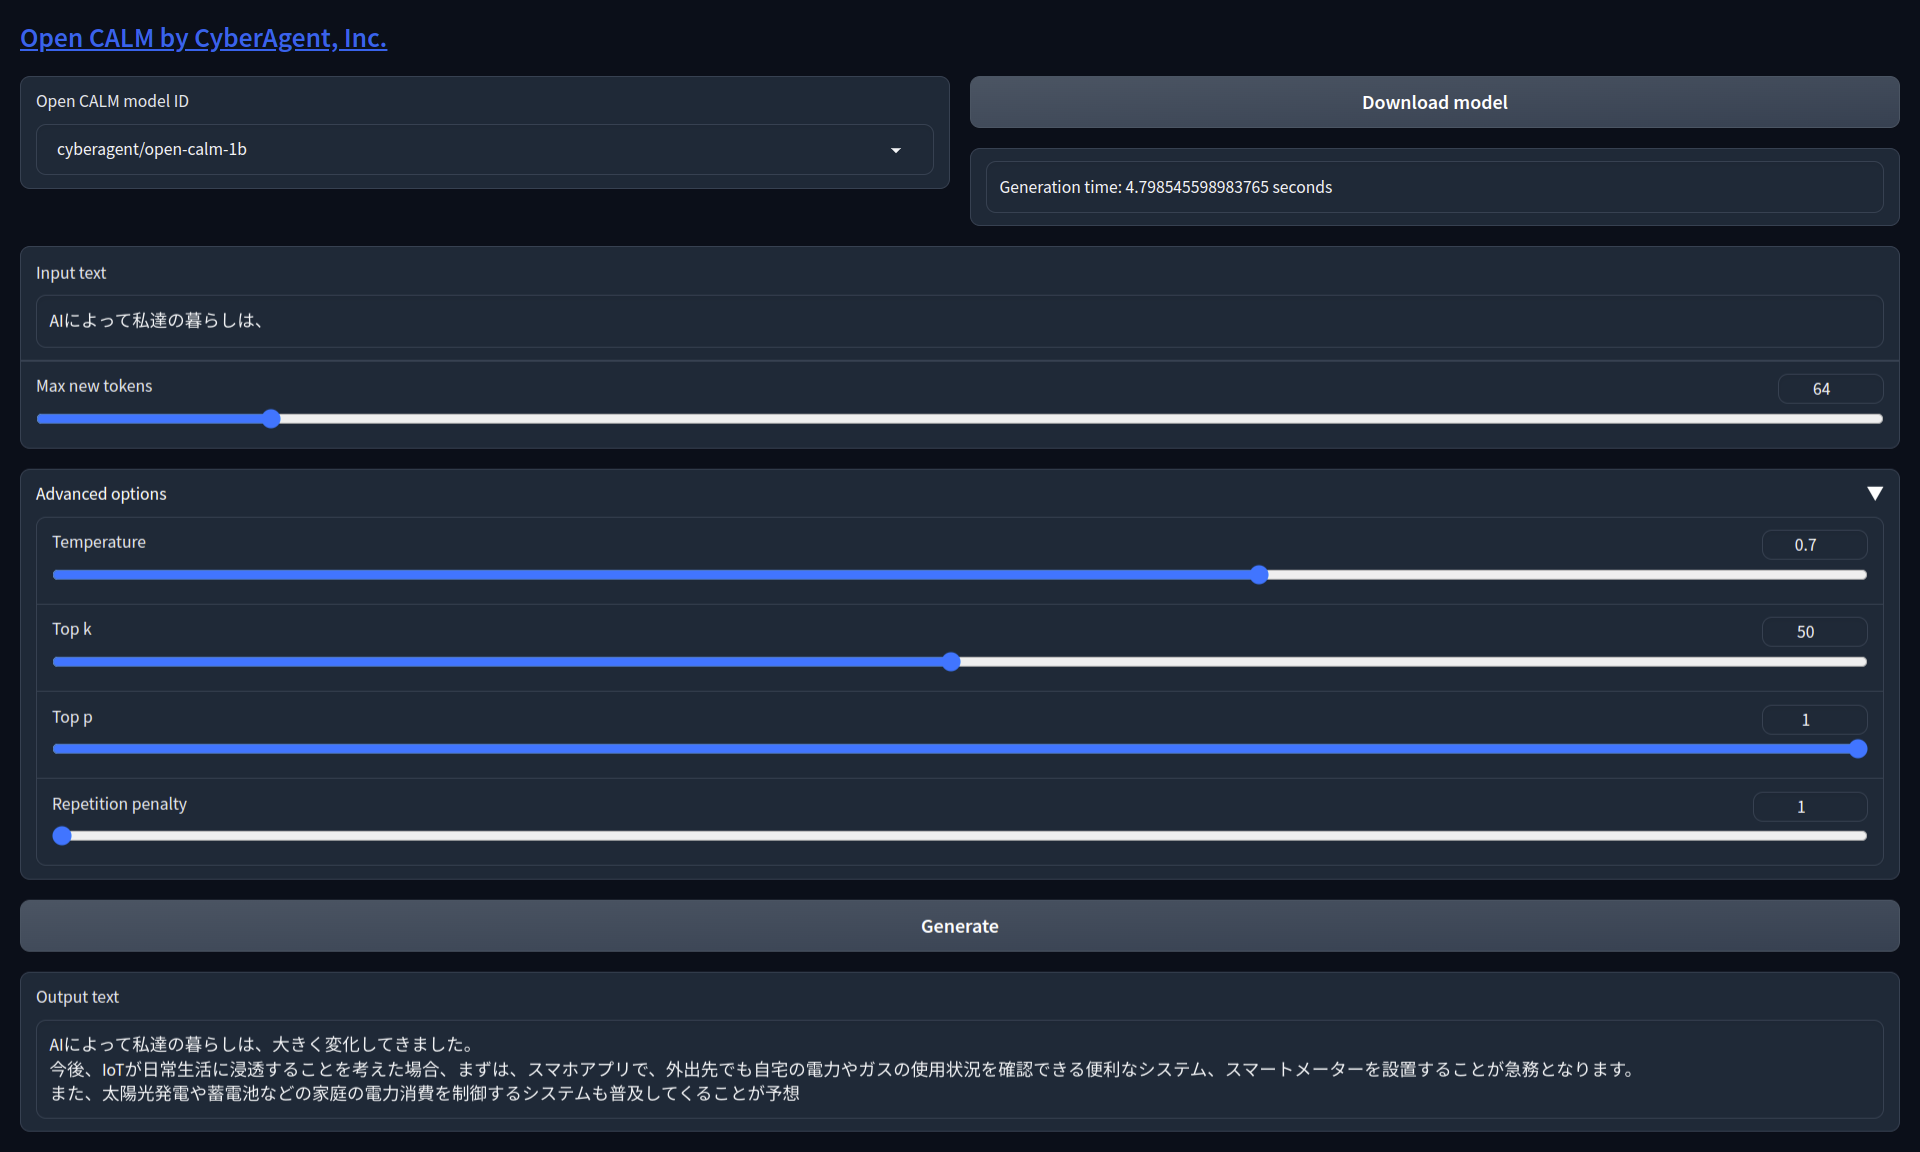
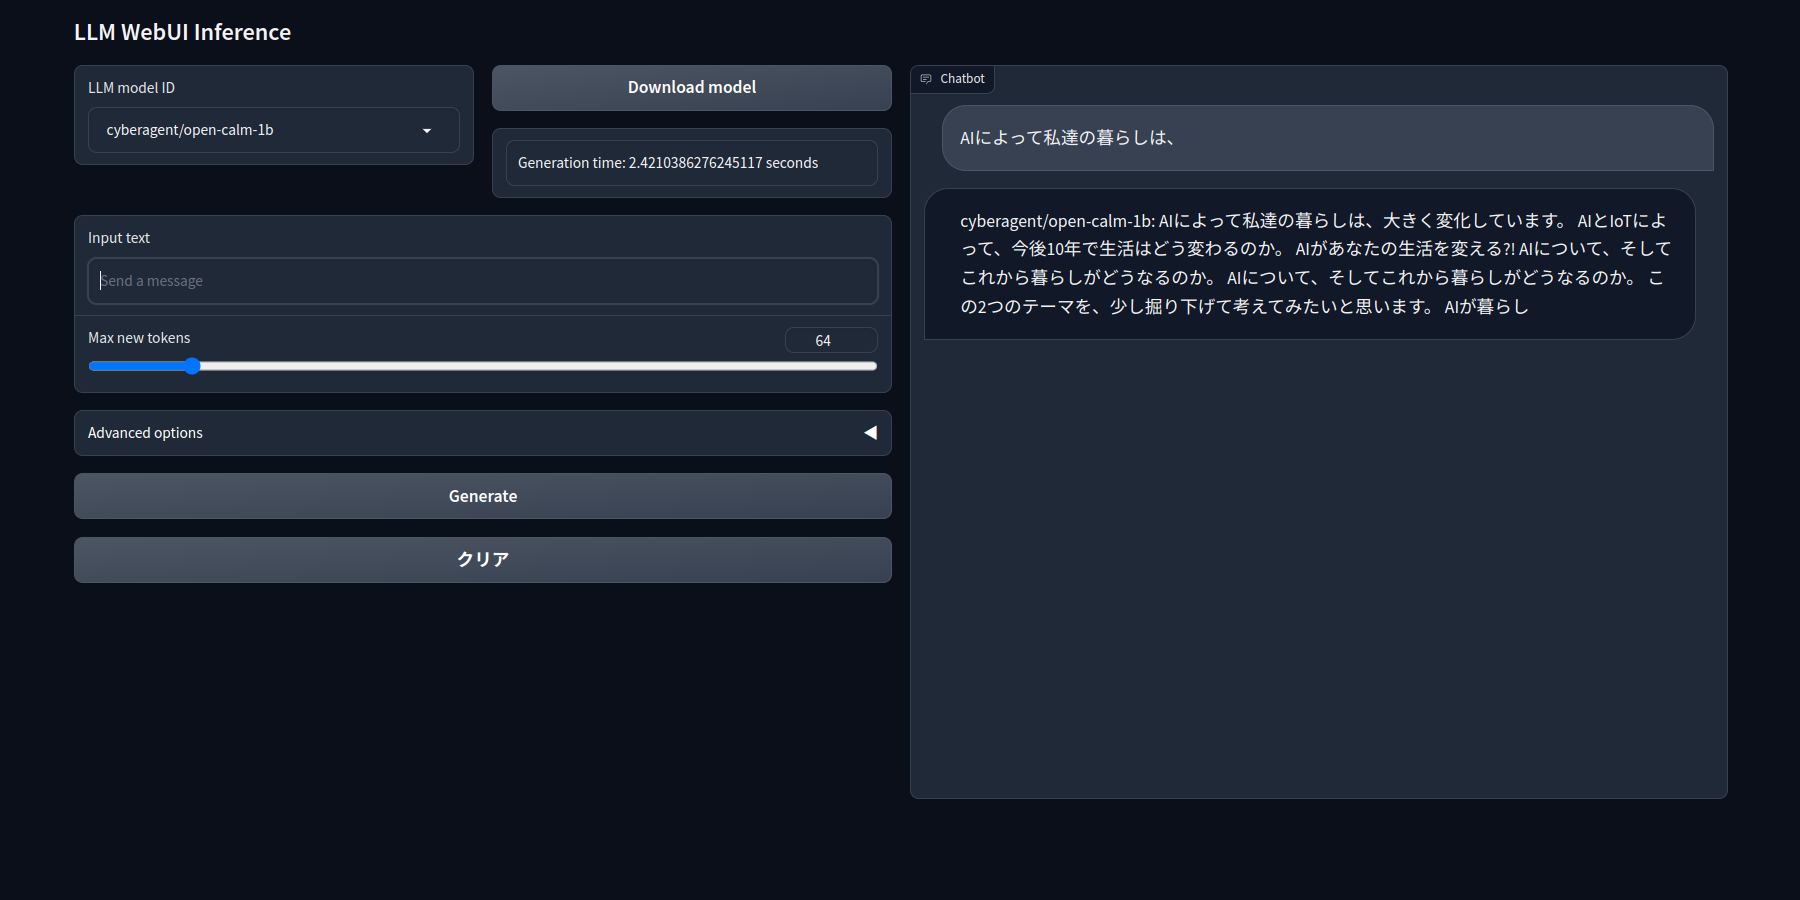
Change text input and output layout

diff --git a/ocalm_app.py b/ocalm_app.py
@@ -49,8 +49,12 @@ def clear_cache():
     gc.collect()
     torch_gc()
 
-def open_calm_inference(open_calm_model_id, input_text_box, max_new_tokens, temperature, top_k, top_p, repetition_penalty):
+def open_calm_inference(chatbot, open_calm_model_id, input_text_box, max_new_tokens, temperature, top_k, top_p, repetition_penalty):
     clear_cache()
+    if input_text_box is None or len(input_text_box.strip()) == 0:
+        return "", chatbot, "Input text is empty."
+    
+    chatbot = [] if chatbot is None else chatbot
     
     dwonload_result = download_model(open_calm_model_id, local_files_only=True)
     if dwonload_result != "Download completed.":
@@ -110,7 +114,9 @@ def open_calm_inference(open_calm_model_id, input_text_box, max_new_tokens, temp
         output = output.replace("<NL>", "\n")
     print("Generation completed.")
 
-    return output, f"Generation time: {elapsed_time} seconds"
+    # return output, f"Generation time: {elapsed_time} seconds"
+    chatbot.append((input_text_box, f"{open_calm_model_id}: " + output))
+    return "", chatbot, f"Generation time: {elapsed_time} seconds"
 
 def on_ui_tabs():
     open_calm_model_ids = get_open_calm_model_ids()
@@ -132,7 +138,13 @@ def on_ui_tabs():
                         with gr.Row():
                             status_text = gr.Textbox(label="", max_lines=1, show_label=False, interactive=False)
                 
-                input_text_box = gr.Textbox(label="Input text", elem_id="input_text_box", placeholder="Input text here", max_lines=16, show_label=True)
+                # input_text_box = gr.Textbox(label="Input text", elem_id="input_text_box", placeholder="Input text here", max_lines=16, show_label=True)
+                input_text_box = gr.Textbox(
+                    label="Input text",
+                    placeholder="Send a message",
+                    show_label=True,
+                )
+                
                 max_new_tokens = gr.Slider(minimum=1, maximum=512, step=1, value=64, label="Max new tokens", elem_id="max_new_tokens")
                 with gr.Accordion("Advanced options", open=False):
                     temperature = gr.Slider(minimum=0.1, maximum=1.0, step=0.1, value=0.7, label="Temperature", elem_id="temperature")
@@ -141,12 +153,20 @@ def on_ui_tabs():
                     repetition_penalty = gr.Slider(minimum=1.0, maximum=10.0, step=0.5, value=1.0, label="Repetition penalty", elem_id="repetition_penalty")
 
                 generate_btn = gr.Button("Generate", elem_id="generate_btn")
-                output_text_box = gr.Textbox(label="Output text", elem_id="output_text_box", placeholder="Output text here", show_label=True, interactive=False)
+                # output_text_box = gr.Textbox(label="Output text", elem_id="output_text_box", placeholder="Output text here", show_label=True, interactive=False)
+                clear_btn = gr.Button("Clear", elem_id="clear_btn")
+            
+            with gr.Column():
+                chatbot = gr.Chatbot([], elem_id="chatbot").style(height=640)
             
             download_model_btn.click(download_model, inputs=[open_calm_model_id], outputs=[status_text])
-            generate_inputs = [open_calm_model_id, input_text_box, max_new_tokens, temperature, top_k, top_p, repetition_penalty]
-            generate_btn.click(open_calm_inference, inputs=generate_inputs, outputs=[output_text_box, status_text])
-
+            generate_inputs = [chatbot, open_calm_model_id, input_text_box, max_new_tokens, temperature, top_k, top_p, repetition_penalty]
+            # generate_btn.click(open_calm_inference, inputs=generate_inputs, outputs=[output_text_box, status_text])
+            generate_btn.click(open_calm_inference, inputs=generate_inputs, outputs=[input_text_box, chatbot, status_text], queue=False)
+            input_text_box.submit(open_calm_inference, inputs=generate_inputs, outputs=[input_text_box, chatbot, status_text], queue=False)
+            
+            clear_btn.click(lambda: None, None, chatbot, queue=False)
+            
     return [(open_calm_interface, "Open CALM", "open_calm")]
 
 block, _, _ = on_ui_tabs()[0]
